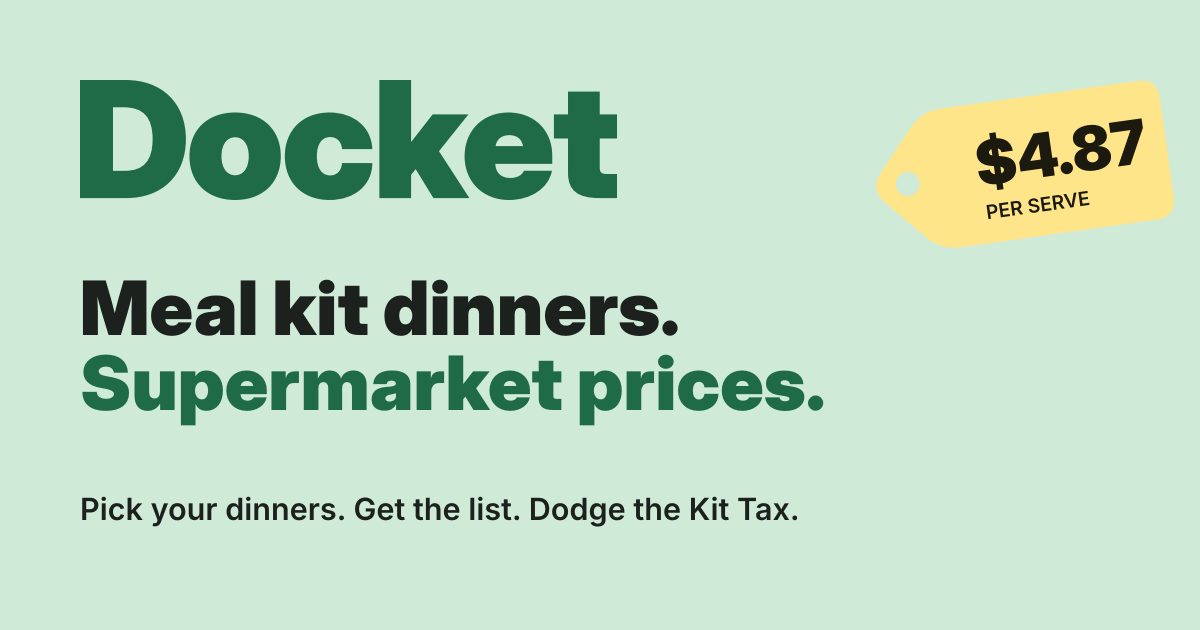
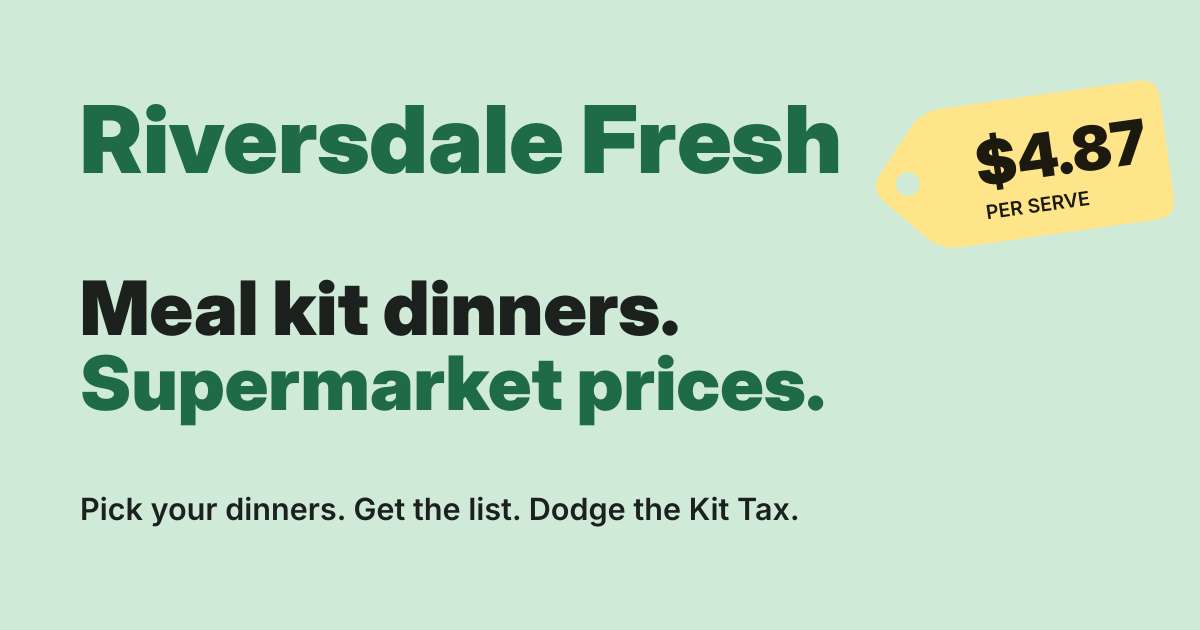
Rename remaining Docket branding to Riversdale Fresh

Changed region(s): [[0.0617, 0.1206, 0.7092, 0.3317]]

diff --git a/worker/worker.js b/worker/worker.js
@@ -1,9 +1,9 @@
-// Docket mailer: a Cloudflare Worker that emails the plan PDFs through Resend.
+// Riversdale Fresh mailer: a Cloudflare Worker that emails the plan PDFs through Resend.
 // Settings (Cloudflare dashboard > Worker > Settings > Variables and secrets):
 //   RESEND_API_KEY  (secret)  your Resend API key
-//   FROM_EMAIL      (text)    e.g.  Docket <plans@getdocket.com.au>   (must be on your verified Resend domain)
+//   FROM_EMAIL      (text)    e.g.  Riversdale Fresh <plans@yourdomain>   (must be on your verified Resend domain)
 //   ALLOWED_ORIGIN  (text)    the site address(es), comma separated, e.g. https://angusjchisholm.github.io
-//   SITE_URL        (text)    e.g. https://angusjchisholm.github.io/docket/plan.html
+//   SITE_URL        (text)    e.g. https://angusjchisholm.github.io/riversdale-fresh/plan.html
 
 const MAX_FILES = 12;
 const MAX_BASE64 = 6_000_000; // about 4.5MB of PDFs in total
@@ -55,12 +55,12 @@ export default {
     const kit = esc(String(b.kit || 'HelloFresh').slice(0, 30));
     const serves = Math.round(num(b.serves));
     const saved = num(b.saved);
-    const site = env.SITE_URL || 'https://angusjchisholm.github.io/docket/plan.html';
+    const site = env.SITE_URL || 'https://angusjchisholm.github.io/riversdale-fresh/plan.html';
 
     const html = `<!doctype html><html><body style="margin:0;background:#F4F7F2;font-family:Helvetica,Arial,sans-serif;color:#1C211E">
 <table role="presentation" width="100%" cellpadding="0" cellspacing="0" style="background:#F4F7F2;padding:24px 12px"><tr><td align="center">
 <table role="presentation" width="100%" cellpadding="0" cellspacing="0" style="max-width:560px;background:#FFFFFF;border-radius:20px;overflow:hidden">
-<tr><td style="background:#CFEBD8;padding:24px 28px"><div style="font-size:30px;font-weight:900;color:#1F6B47;letter-spacing:-0.5px">Docket</div>
+<tr><td style="background:#CFEBD8;padding:24px 28px"><div style="font-size:30px;font-weight:900;color:#1F6B47;letter-spacing:-0.5px">Riversdale Fresh</div>
 <div style="font-size:15px;font-weight:600;margin-top:4px">Your week is sorted.</div></td></tr>
 <tr><td style="padding:24px 28px">
 <p style="margin:0 0 14px;font-size:15px;line-height:1.5">Your shopping list and recipes are attached as PDFs. Here's the week at a glance:</p>
@@ -71,17 +71,17 @@ ${dinners.map((d, i) => `<tr><td style="padding:6px 0;border-bottom:1px dashed #
 <td style="background:#FFE58A;border-radius:12px;padding:12px 14px;font-weight:900;font-size:22px">${money(b.total, 0)}<div style="font-size:11px;font-weight:700;letter-spacing:1px">ESTIMATED SHOP${store ? ' · ' + store.toUpperCase() : ''}${serves ? ' · ' + serves + ' SERVES' : ''}</div></td>
 </tr></table>
 ${saved > 0 ? `<table role="presentation" width="100%" cellpadding="0" cellspacing="0" style="margin-top:10px"><tr><td style="background:#CFEBD8;border-radius:12px;padding:12px 14px;color:#1F6B47;font-weight:700;font-size:15px">Kit Tax dodged: ${money(saved)} vs ${kit}. That's ${money(saved * 52, 0)} a year.</td></tr></table>` : ''}
-<p style="margin:20px 0 0;font-size:14px"><a href="${esc(site)}" style="color:#1F6B47;font-weight:700">Plan next week on Docket</a></p>
+<p style="margin:20px 0 0;font-size:14px"><a href="${esc(site)}" style="color:#1F6B47;font-weight:700">Plan next week on Riversdale Fresh</a></p>
 </td></tr>
-<tr><td style="padding:16px 28px 24px;font-size:12px;color:#59625C;border-top:1px solid #DCE3DC">Docket · Meal kit dinners. Supermarket prices.<br>You got this email because this address was entered on Docket. Prices are estimates; check them at the shelf.</td></tr>
+<tr><td style="padding:16px 28px 24px;font-size:12px;color:#59625C;border-top:1px solid #DCE3DC">Riversdale Fresh · Meal kit dinners. Supermarket prices.<br>You got this email because this address was entered on Riversdale Fresh. Prices are estimates; check them at the shelf.</td></tr>
 </table></td></tr></table></body></html>`;
 
-    const text = `Your Docket for the week\n\n${dinners.map((d, i) => `${i + 1}. ${d}`).join('\n')}\n\nEstimated shop: ${money(b.total, 0)}${saved > 0 ? `\nKit Tax dodged: ${money(saved)} vs ${b.kit || 'HelloFresh'}` : ''}\n\nYour shopping list and recipes are attached as PDFs.\nPlan next week: ${site}`;
+    const text = `Your Riversdale Fresh plan for the week\n\n${dinners.map((d, i) => `${i + 1}. ${d}`).join('\n')}\n\nEstimated shop: ${money(b.total, 0)}${saved > 0 ? `\nKit Tax dodged: ${money(saved)} vs ${b.kit || 'HelloFresh'}` : ''}\n\nYour shopping list and recipes are attached as PDFs.\nPlan next week: ${site}`;
 
     const res = await fetch('https://api.resend.com/emails', {
       method: 'POST',
       headers: { 'Authorization': `Bearer ${env.RESEND_API_KEY}`, 'Content-Type': 'application/json' },
-      body: JSON.stringify({ from: env.FROM_EMAIL, to: [to], subject: 'Your Docket for the week', html, text, attachments: files.map(f => ({ filename: f.filename, content: f.content })) })
+      body: JSON.stringify({ from: env.FROM_EMAIL, to: [to], subject: 'Your Riversdale Fresh plan for the week', html, text, attachments: files.map(f => ({ filename: f.filename, content: f.content })) })
     });
     if (!res.ok) { const t = await res.text(); console.log('Resend error', res.status, t); return reply(502, { error: 'Email service error' }); }
     hits.push(now); recent.set(ip, hits);

diff --git a/admin/prices.html b/admin/prices.html
@@ -7,7 +7,7 @@
 <title>Price Importer · Riversdale Fresh</title>
 <link rel="icon" href="../assets/img/riversdale-favicon.ico" sizes="any">
 <link rel="stylesheet" href="https://fonts.googleapis.com/css2?family=Inter:opsz,wght@14..32,700..900&family=Figtree:wght@400;500;600;700&family=IBM+Plex+Mono:wght@500;700&display=swap">
-<link rel="stylesheet" href="../assets/css/docket.css?v=202610161153">
+<link rel="stylesheet" href="../assets/css/riversdale-fresh.css?v=202610161153">
 <style>
   .admin{max-width:1200px;margin:0 auto;padding-left:max(16px,env(safe-area-inset-left,0px));padding-right:max(16px,env(safe-area-inset-right,0px));padding-block:24px 60px;display:flex;flex-direction:column;gap:20px}
   .admin h1{font-family:var(--display);font-weight:900;font-size:34px;letter-spacing:-.02em;margin:0}
@@ -64,7 +64,7 @@
 
   <section class="panel">
     <div class="sec-head"><h2>Publish to the site</h2></div>
-    <p class="small">One-time setup: paste a fine-grained GitHub token for the docket repo (Contents: Read and write). It's kept in this browser only, and after that every paste publishes on its own.</p>
+    <p class="small">One-time setup: paste a fine-grained GitHub token for the riversdale-fresh repo (Contents: Read and write). It's kept in this browser only, and after that every paste publishes on its own.</p>
     <div class="row"><input class="tok" id="token" type="password" placeholder="github_pat_..." autocomplete="off"><button class="btn" id="publish">Publish</button></div>
     <p class="msg" id="pubmsg" role="status"></p>
   </section>
@@ -75,7 +75,7 @@
 <script>
 (function(){
   const $=s=>document.querySelector(s);
-  const REPO='AngusJChisholm/docket';
+  const REPO='AngusJChisholm/riversdale-fresh';
   const esc=s=>String(s??'').replace(/[&<>"]/g,c=>({'&':'&amp;','<':'&lt;','>':'&gt;','"':'&quot;'}[c]));
   const money=v=>v==null?'':'$'+(+v).toFixed(2);
   const today=new Date().toISOString().slice(0,10);

diff --git a/js/pdf.js b/js/pdf.js
@@ -1,4 +1,4 @@
-// Builds the Docket PDFs in the browser: one shopping list plus one PDF per recipe.
+// Builds the Riversdale Fresh PDFs in the browser: one shopping list plus one PDF per recipe.
 // Needs jsPDF (loaded on plan.html) and the planner's functions (week, splitLines, kAmt, ...).
 const DocketPDF = window.DocketPDF = (function () {
   const C = { ink: [28, 33, 30], muted: [89, 98, 92], green: [31, 107, 71], mint: [207, 235, 216], butter: [255, 229, 138], peach: [255, 217, 203], markup: [169, 54, 23], line: [220, 227, 220] };
@@ -8,10 +8,7 @@ const DocketPDF = window.DocketPDF = (function () {
   async function loadLogo() {
     if (logo) return logo;
     try {
-      return null; // text wordmark while trading as Riversdale Fresh
-      const res = await fetch('assets/img/docket-wordmark-green-600.png');
-      const blob = await res.blob();
-      logo = await new Promise(r => { const fr = new FileReader(); fr.onload = () => r(fr.result); fr.readAsDataURL(blob); });
+      return null; // text wordmark until there's a Riversdale Fresh logo image
     } catch (e) { logo = null; }
     return logo;
   }

diff --git a/js/config.js b/js/config.js
@@ -3,10 +3,10 @@ window.DOCKET_CONFIG = {
   // Paste your sign-up form endpoint here (for example a Formspree form URL like
   // "https://formspree.io/f/abcdwxyz"). Leave it empty and the form says sign-ups open soon.
   waitlistEndpoint: "",
-  // The Docket mailer (Cloudflare Worker) URL that emails the PDFs, e.g. "https://docket-mailer.yourname.workers.dev/send".
+  // The Riversdale Fresh mailer (Cloudflare Worker) URL that emails the PDFs, e.g. "https://riversdale-fresh-mailer.yourname.workers.dev/send".
   // Leave empty and "Send my plan" downloads the PDFs instead.
   emailEndpoint: "",
-  // Weekly allowance for pantry staples (oil, salt, pepper, sugar), added to every Docket total.
+  // Weekly allowance for pantry staples (oil, salt, pepper, sugar), added to every Riversdale Fresh total.
   staplesPerWeek: 10,
   // Who can see the full recipes. 'open' = everyone, no sign-up. 'email' = this week's picks free,
   // the rest free with an email. 'pro' = paid members only (needs recipeEndpoint).

diff --git a/js/season.js b/js/season.js
@@ -26,7 +26,7 @@ window.DOCKET_SEASON = (function () {
     r.i.forEach(([id]) => { const s = status(id, m); if (s > 0) inn.push(id); else if (s < 0) out.push(id); });
     return { inn, out, score: inn.length - out.length * 1.5, isIn: inn.length > 0 && out.length === 0 };
   }
-  // The Docket week runs Wednesday to Tuesday, when the specials flip
+  // The Riversdale Fresh week runs Wednesday to Tuesday, when the specials flip
   function weekStart(d) { const x = new Date(d || now()); x.setHours(12, 0, 0, 0); x.setDate(x.getDate() - ((x.getDay() + 4) % 7)); return x; }
   const key = d => weekStart(d).toISOString().slice(0, 10);
   const hash = s => { let h = 2166136261; for (const c of s) { h ^= c.charCodeAt(0); h = Math.imul(h, 16777619); } return ((h >>> 0) % 10000) / 10000; };

diff --git a/index.html b/index.html
@@ -17,7 +17,7 @@
 <link rel="preconnect" href="https://fonts.googleapis.com">
 <link rel="preconnect" href="https://fonts.gstatic.com" crossorigin>
 <link rel="stylesheet" href="https://fonts.googleapis.com/css2?family=Inter:opsz,wght@14..32,700..900&family=Figtree:wght@400;500;600;700&family=IBM+Plex+Mono:wght@500;700&display=swap">
-<link rel="stylesheet" href="assets/css/docket.css?v=202610161153">
+<link rel="stylesheet" href="assets/css/riversdale-fresh.css?v=202610161153">
 </head>
 <body class="page-home">
 <a class="skip" href="#main">Skip to content</a>

diff --git a/plan.html b/plan.html
@@ -17,7 +17,7 @@
 <link rel="preconnect" href="https://fonts.googleapis.com">
 <link rel="preconnect" href="https://fonts.gstatic.com" crossorigin>
 <link rel="stylesheet" href="https://fonts.googleapis.com/css2?family=Inter:opsz,wght@14..32,700..900&family=Figtree:wght@400;500;600;700&family=IBM+Plex+Mono:wght@500;700&display=swap">
-<link rel="stylesheet" href="assets/css/docket.css?v=202610161153">
+<link rel="stylesheet" href="assets/css/riversdale-fresh.css?v=202610161153">
 </head>
 <body class="page-plan">
 <a class="skip" href="#main">Skip to content</a>

diff --git a/js/home.js b/js/home.js
@@ -147,7 +147,7 @@
     try {
       const res = await fetch(CFG.waitlistEndpoint, { method: 'POST', headers: { 'Accept': 'application/json', 'Content-Type': 'application/json' }, body: JSON.stringify({ email, source: 'docket-home' }) });
       if (!res.ok) throw new Error(res.status);
-      msg.textContent = "You're in. First docket lands Wednesday."; e.target.reset();
+      msg.textContent = "You're in. First plan lands Wednesday."; e.target.reset();
     } catch (err) { msg.textContent = "That didn't go through. Try again in a minute."; }
   });
 })();

diff --git a/js/recipes.js b/js/recipes.js
@@ -1,5 +1,5 @@
 // Recipe methods: loaded one at a time, only for people allowed to see them.
-// Today they come from content/recipes/<id>.json. When Docket Pro launches, set recipeEndpoint in js/config.js
+// Today they come from content/recipes/<id>.json. When Riversdale Fresh Pro launches, set recipeEndpoint in js/config.js
 // to the Worker that checks the member's login before handing over the method.
 window.DocketRecipes = (function () {
   const CFG = window.DOCKET_CONFIG || {};

diff --git a/assets/css/riversdale-fresh.css b/assets/css/riversdale-fresh.css
@@ -1,4 +1,4 @@
-/* Docket site styles. Tokens first, then site chrome (nav, footer), the home page, then the planner. */
+/* Riversdale Fresh site styles. Tokens first, then site chrome (nav, footer), the home page, then the planner. */
 :root{
   --bg:#F4F7F2; --surface:#FFFFFF; --sunk:#EAF0E9; --ink:#1C211E; --muted:#59625C; --line:#DCE3DC;
   --green:#1F6B47; --on-green:#FFFFFF; --mint:#CFEBD8; --ticket:#FFE58A; --on-ticket:#1C1A0E;

diff --git a/js/data.js b/js/data.js
@@ -1,5 +1,5 @@
 // ============================================================================
-// Docket recipe library and ingredient prices.
+// Riversdale Fresh recipe library and ingredient prices.
 // Prices are Coles estimates (Melbourne, Oct 2026). Woolies and Aldi are derived from these.
 // Quantities in recipes are PER SERVE (one dinner portion). The planner scales them.
 //

diff --git a/worker/SETUP.md b/worker/SETUP.md
@@ -3,7 +3,7 @@
 Until this is set up, "Send my plan" downloads the PDFs instead. About 20 minutes, all free except the domain.
 
 ## 1. Buy a domain
-Buy something like `getdocket.com.au` (a .com.au needs an ABN) or `getdocket.com`. Any registrar works; Cloudflare Registrar is the cheapest and makes step 2 easier.
+Buy something like `riversdalefresh.com.au` (a .com.au needs an ABN) or `riversdalefresh.com`. Any registrar works; Cloudflare Registrar is the cheapest and makes step 2 easier.
 
 ## 2. Resend (sends the emails)
 1. Sign up at resend.com.
@@ -13,14 +13,14 @@ Buy something like `getdocket.com.au` (a .com.au needs an ABN) or `getdocket.com
 
 ## 3. Cloudflare Worker (the bit of code that talks to Resend)
 1. Sign up at dash.cloudflare.com.
-2. **Workers & Pages > Create > Create Worker**. Name it `docket-mailer`, click **Deploy**.
+2. **Workers & Pages > Create > Create Worker**. Name it `riversdale-fresh-mailer`, click **Deploy**.
 3. Click **Edit code**, delete what's there, paste in everything from `worker/worker.js`, then **Deploy**.
 4. Go to the worker's **Settings > Variables and secrets** and add:
    - `RESEND_API_KEY` (type **Secret**): your Resend key
-   - `FROM_EMAIL`: `Docket <plans@yourdomain>`
+   - `FROM_EMAIL`: `Riversdale Fresh <plans@yourdomain>`
    - `ALLOWED_ORIGIN`: `https://angusjchisholm.github.io` (add your own domain later, comma separated)
-   - `SITE_URL`: `https://angusjchisholm.github.io/docket/plan.html`
-5. Copy the worker's address (like `https://docket-mailer.yourname.workers.dev`).
+   - `SITE_URL`: `https://angusjchisholm.github.io/riversdale-fresh/plan.html`
+5. Copy the worker's address (like `https://riversdale-fresh-mailer.yourname.workers.dev`).
 
 ## 4. Connect the site
 In `js/config.js`, set `emailEndpoint` to the worker address, then push. Test it by sending a plan to yourself.
